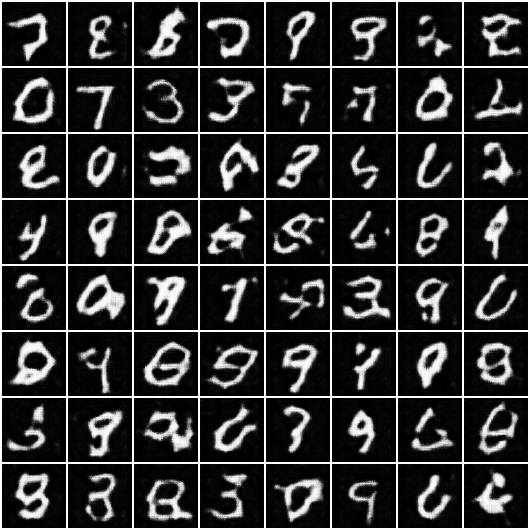
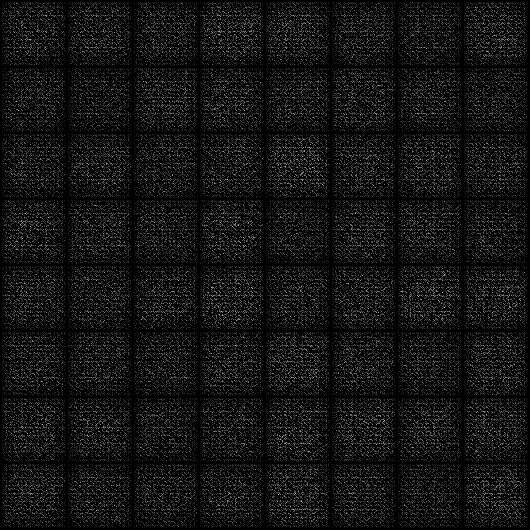
added student seperate classifier/discriminator

diff --git a/main.py b/main.py
@@ -37,6 +37,8 @@ parser.add_argument('--beta1', type=float, default=0.5, help='beta1 for adam. de
 parser.add_argument('--cuda', action='store_true', help='enables cuda')
 parser.add_argument('--netG', default='', help="path to netG (to continue training)")
 parser.add_argument('--netD', default='', help="path to netD (to continue training)")
+parser.add_argument('--netC', default='', help="path to netC (to continue training)")
+parser.add_argument('--netS', default='', help="path to netS (to continue training)")
 parser.add_argument('--outf', default='.', help='folder to output images and model checkpoints')
 parser.add_argument('--manualSeed', type=int, help='manual seed')
 
@@ -53,6 +55,7 @@ if opt.manualSeed is None:
 print("Random Seed: ", opt.manualSeed)
 random.seed(opt.manualSeed)
 torch.manual_seed(opt.manualSeed)
+
 if opt.cuda:
     torch.cuda.manual_seed_all(opt.manualSeed)
 
@@ -127,8 +130,8 @@ print(netS)
 #Definition of the loss functions
 
 d_criterion = nn.BCELoss()  # Cross-entropy loss for fake/real
-c_criterion = nn.NLLLoss() # Cross-Entropy for labels for classifier
-s_criterion = nn.NLLLoss() # Cross-Entropy for labels for sudent
+c_criterion = nn.CrossEntropyLoss() # Cross-Entropy for labels for classifier
+s_criterion = nn.CrossEntropyLoss() # Cross-Entropy for labels for sudent
 
 
 input = torch.FloatTensor(opt.batchSize, 3, opt.imageSize, opt.imageSize)
@@ -206,7 +209,7 @@ for epoch in range(opt.niter):
         s_output = netS(input)
 
         # compute the losses on real data for Discriminator/Classifier/Student
-        d_errD_real = d_criterion(s_output, s_label)
+        d_errD_real = d_criterion(d_output, d_label)
         c_errC_real = c_criterion(c_output, c_label)
         s_errS_real = s_criterion(s_output, c_label)
 

diff --git a/model.py b/model.py
@@ -99,14 +99,14 @@ class netD(nn.Module):
         x = self.conv5(x)
         x = x.view(-1, self.ndf * 1)
         d = self.disc_linear(x)
-        d = self.sigmoid(s)
+        d = self.sigmoid(d)
         return d
 
 class netC(nn.Module):
 
     def __init__(self, ndf, nc, nb_label):
 
-        super(netD, self).__init__()
+        super(netC, self).__init__()
         self.LeakyReLU = nn.LeakyReLU(0.2, inplace=True)
         self.conv1 = nn.Conv2d(nc, ndf, 4, 2, 1, bias=False)
         self.conv2 = nn.Conv2d(ndf, ndf * 2, 4, 2, 1, bias=False)
